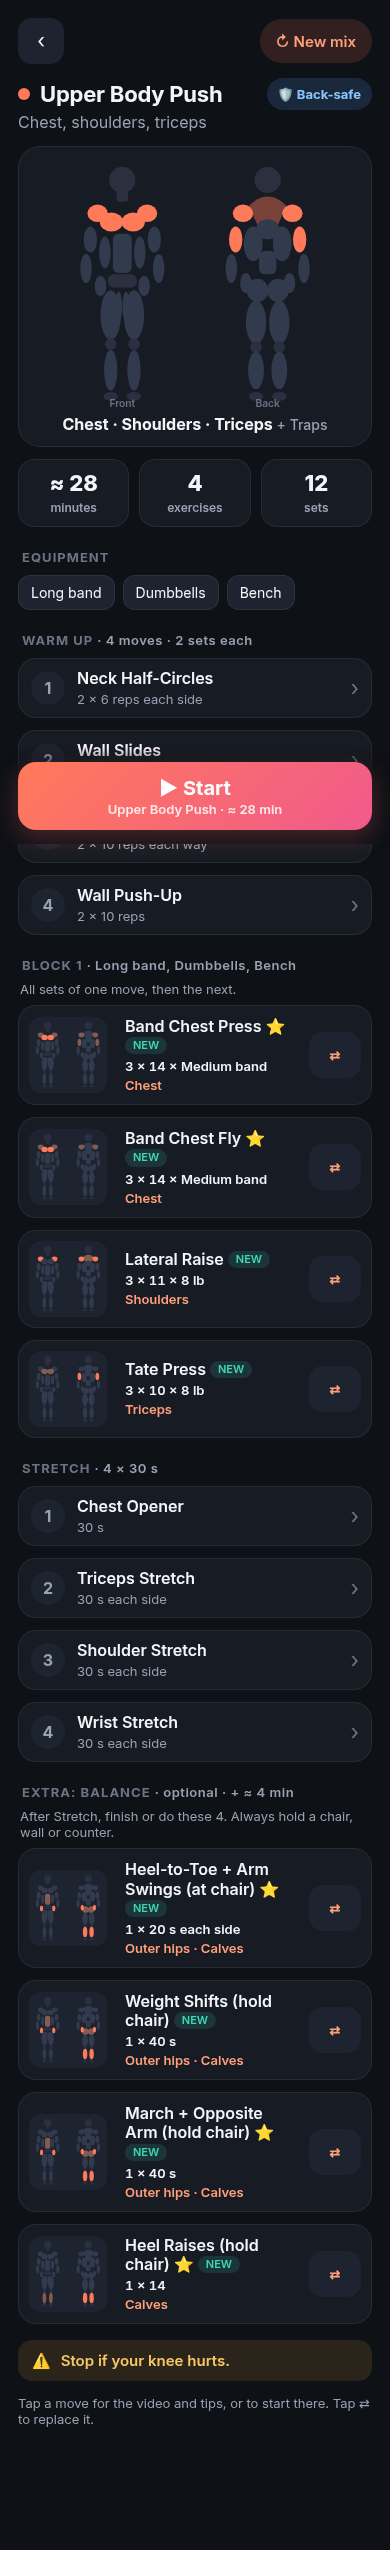
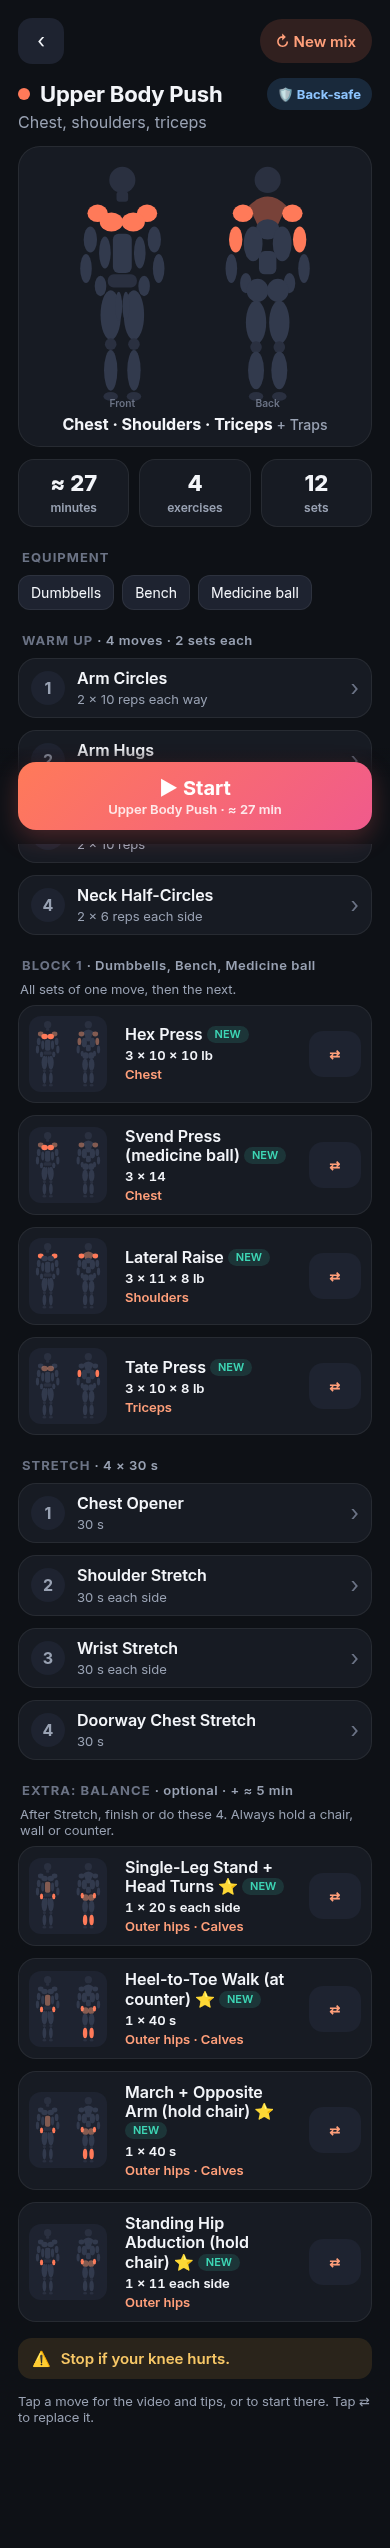
v6.7: 5 standing dumbbell core moves from Kassandra's reel, sprinkled into Block 1 (Day D/Core, sometimes Day A)

diff --git a/index.html b/index.html
@@ -38,6 +38,7 @@ h2{font-size:22px;margin:0 0 4px;letter-spacing:-.01em}
 .vbar{display:flex;flex-wrap:wrap;gap:8px;align-items:center;padding:8px 0 2px}.vbar .yt{padding:6px 2px;margin-left:auto}
 .pill.fav{background:rgba(245,181,68,.16);color:var(--warn)}
 .pill.cm{background:rgba(61,214,181,.14);color:var(--ok)}
+.pill.rl{background:rgba(160,120,255,.16);color:#C9B4FF;text-decoration:none}
 .cmn{margin-top:8px;font-size:14px;color:var(--muted);line-height:1.4}
 .kneel{display:flex;align-items:center;gap:10px;width:100%;margin-top:10px;padding:12px 14px;min-height:48px;border-radius:14px;background:var(--card2);color:var(--txt,#fff);font-size:15px;font-weight:600;text-align:left}
 .kneel .sw{margin-left:auto;width:44px;height:26px;border-radius:13px;background:rgba(255,255,255,.18);position:relative;flex:none}
@@ -527,6 +528,12 @@ kb_dead_bug:{g:"core",f:"anti",n:"Kettlebell Dead Bug",v:"556ibwFFFAM",c:"Lie on
 kb_overhead_march:{g:"core",f:"carry",n:"Overhead March (by a wall)",v:"edIzJHViuO0",c:"Stand next to a wall. Light bell straight up in one hand. March slowly in place. Switch at the beep.",e:"Kettlebell · Wall",w:"lb",t:40,s:1,fav:1},
 kb_rack_carry:{g:"core",f:"carry",n:"Rack Carry",v:"zKHog8SWdM4",c:"Hold the bell at your chest, elbow down. Stand tall. Walk slowly. Switch at the beep.",e:"Kettlebell",w:"lb",t:40,s:1,fav:1},
 superman:{g:"core",f:"ext",n:"Gentle Superman",v:"z6PJMT2y8GQ",c:"Lie on your belly on a soft mat. Lift arms and legs a little. Hold 2 seconds. Lower.",e:"Mat",w:"none",r:"8-10",fav:1},
+// ---------- From Kassandra's reel "5 standing core exercises" (Facebook, Aug 2026; inspo @WorthyfitQ). All standing, one dumbbell. rl = from the reel ----------
+reel_twist:{g:"core",f:"rot",n:"Standing Dumbbell Twist",v:"oCp6wBgKGaw",c:"Stand tall, feet hip-width, soft knees. Hold one dumbbell at your chest with both hands. Turn your ribs to one side, then the other. Hips face forward. Slow and controlled.",e:"Dumbbell",w:"lb",r:"12-16",sw:8,fav:1,rl:1,m:[["obliques","abs"],["shoulders"]],rln:"Kassandra does 15 reps."},
+reel_toe_reach:{g:"core",f:"chop",n:"Dumbbell Cross Reach (to shin)",v:"gSDi-M8p7pY",c:"Feet wide, soft knees. Hold one dumbbell with both hands. Push hips back and reach it toward the outside of one foot. Stand tall. Switch sides. Shin height is fine.",e:"Dumbbell",w:"lb",r:"12-16",sw:8,fav:1,rl:1,m:[["obliques","hamstrings"],["glutes","lowerback"]],rln:"Kassandra does 15 alternating reps and reaches to the floor. You can stop at shin height."},
+reel_chop_up:{g:"core",f:"chop",n:"Low-to-High Dumbbell Chop (standing)",v:"HtG6ybpEAZ0",c:"Feet wide, soft knees. Dumbbell in both hands at the outside of one hip. Lift it up and across to above the other shoulder. Pivot your back foot. Lower slowly. Switch sides.",e:"Dumbbell",w:"lb",r:"12-16",sw:8,fav:1,rl:1,m:[["obliques","shoulders"],["abs","glutes"]],rln:"Kassandra does 15 alternating reps. Keep the knee bend small, no squat."},
+reel_body_pass:{g:"core",f:"rot",n:"Dumbbell Around-the-Body Pass",v:"L1mmEBRHZrs",c:"Stand tall, feet hip-width, soft knees. Pass one dumbbell around your waist from hand to hand. Hips stay still, belly tight. Change direction every 5.",e:"Dumbbell",w:"lb",r:"16-20",sw:8,fav:1,rl:1,m:[["abs","obliques"],["shoulders","forearms"]],rln:"Kassandra does 20 reps, changing direction every 5."},
+reel_chop_down:{g:"core",f:"chop",xg:["sh"],n:"High-to-Low Dumbbell Chop (standing)",v:"bxSY805t8CQ",c:"Feet wide, soft knees. Hold one dumbbell with both hands above one shoulder. Pull it down and across to the outside of the other hip. Pivot your back foot. Lift back up slowly. Switch sides halfway.",e:"Dumbbell",w:"lb",r:"12-16",sw:8,fav:1,rl:1,m:[["obliques","shoulders"],["abs","lats"]],rln:"Kassandra does 15 reps from overhead."},
 // ---------- BALANCE (always hold support) ----------
 sl_stand:{g:"bal",f:"static",n:"Single-Leg Stand (hold chair)",v:"E3j7nJyqLys",c:"Hold a chair or wall. Lift one foot a little. Stand tall. Switch at the beep.",e:"Chair or wall",w:"none",t:40,s:1,b:1,st:602,en:805,my:1,alt:["8xRDWe3pj30",0,0,"Short demo"],fav:1},
 tandem:{g:"bal",f:"static",n:"Heel-to-Toe Stand (at wall)",v:"E3j7nJyqLys",c:"Stand next to a wall, hand on it. One foot right in front of the other. Switch at the beep.",e:"Wall",w:"none",t:40,s:1,b:1,st:325,en:382,my:1,alt:["ra7tzlPxnsQ",0,0,"Short demo"],fav:1},
@@ -638,8 +645,11 @@ const BACK_BAD=new Set([
  "mb_twist","woodchop","db_side_bend","kb_around_world","kb_sword_chop","kb_digger","kb_underhand_twist","kb_rainbow","superman",
  "torso_twist","side_bend","cat_cow_stand","good_morning","hip_circles","elephant_walk","march",
  "upper_back","seated_twist","seated_ham","seated_piriformis","knee_drops","lying_twist","open_book","sphinx","lat_stretch",
- "chair_hip_ext"]);
+ "chair_hip_ext",
+ "reel_toe_reach"]);
 /* if a whole slot is unsafe (e.g. RDL hinge, twisting core), pick from these instead */
+/* reel moves: Valerie says her back is fine, so only the loaded reach-to-the-floor is left out in back-safe mode */
+const REEL_FB="https://www.facebook.com/reel/878490528387532/";
 const BACK_ALT={hinge:"gb",core:"core"};
 const XSLOTS=[{g:"bal",f:["static"],n:1,rest:15,fix:1,x:1},{g:"bal",f:["dyn"],n:1,rest:15,fix:1,x:1},{g:"bal",f:["dyn","static"],n:1,rest:15,fix:1,x:1},{g:"bal",f:["str"],n:1,rest:15,fix:1,x:1}];
 /* cm = extra weight for Coddell Mutate moves in that slot; fin = core finisher at the end of the day */
@@ -744,9 +754,13 @@ const FAVW=2;
 function prefOf(k){return (LS.get("pref",{}))[k]||""}
 function setPref(k,v){const p=LS.get("pref",{});if(p[k]===v)delete p[k];else p[k]=v;LS.set("pref",p)}
 /* Coddell Mutate moves (cm) get the slot's cm weight on top (core slots on Day D, core finishers on A-C) */
-const wOf=(k,sl)=>{const p=prefOf(k);return (EX[k].fav?FAVW:1)*(sl&&sl.cm&&EX[k].cm?sl.cm:1)*(p==="more"?2:p==="less"?0.4:1)};
+/* reel moves (rl): "sprinkled in". In back-safe mode most other twisting core moves are out, so the reel ones are toned down there to stay occasional */
+const RLW=()=>backSafe()?0.12:1;
+const wOf=(k,sl)=>{const p=prefOf(k);return (EX[k].fav?FAVW:1)*(EX[k].rl?RLW():1)*(sl&&sl.cm&&EX[k].cm?sl.cm:1)*(p==="more"?2:p==="less"?0.4:1)};
 function wpick(a,sl){let t=a.reduce((s,k)=>s+wOf(k,sl),0),r=Math.random()*t;for(const k of a){r-=wOf(k,sl);if(r<=0)return k}return a[a.length-1]}
 const CM_TAG='<span class="pill cm">💪 From Coddell Mutate</span>';
+const RL_TAG=`<a class="pill rl" href="${REEL_FB}" target="_blank" rel="noopener">🎬 From Kassandra's reel ↗</a>`;
+const srcTag=e=>(e.cm||e.rl)?`<div class="chips" style="margin-top:8px">${e.cm?CM_TAG:""}${e.rl?RL_TAG:""}</div>`:"";
 /* kettlebells come in fixed sizes: lb values of 4, 6, 8, 10, 12, 14, 16, 18, 20, 24 kg bells */
 const KB_LB=[9,13,18,22,26,31,35,40,44,53];
 const kgOf=lb=>Math.round(lb/2.2046);
@@ -1010,7 +1024,7 @@ function overview(day){
  const ms=sessionMuscles(p.b),sets=D.slots.reduce((t,sl,j)=>t+roundsFor(p.b[j],sl),0),em=estMin(day);
  const lite=(k,i,m)=>`<button class="item lite" onclick="preview('${k}','${day}',-1)"><span class="num">${i+1}</span><span class="sp" style="text-align:left"><span class="n">${exName(k)}</span><span class="m">${m}</span></span><span class="chev">›</span></button>`;
  const slot=j=>{const k=pick(day,j),e=EX[k],sl=slotOf(day,j),pf=prefOf(k);
-  return `<div class="item"><button class="mthumbbtn" onclick="preview('${k}','${day}',${j})" aria-label="Watch">${bodySVG(k,"mthumb")}</button><button class="sp" style="text-align:left" onclick="preview('${k}','${day}',${j})"><div class="n">${exName(k)}${e.fav?" <span title='favorite style'>⭐</span>":""}${e.cm?" <span title='From Coddell Mutate'>💪</span>":""}${pf==="more"?" 👍":pf==="less"?" 👎":""}${isNew(k)?' <span class="pill ok" style="padding:2px 8px;font-size:11px;vertical-align:2px">NEW</span>':""}</div><div class="m tg">${fmtTarget(k,roundsFor(k,sl))}</div><div class="m mm">${musclesOf(k)[0].map(m=>MNAME[m]).join(" · ")}</div></button><button class="swap" onclick="openReplace('${day}',${j},0)" aria-label="Replace">⇄</button></div>`};
+  return `<div class="item"><button class="mthumbbtn" onclick="preview('${k}','${day}',${j})" aria-label="Watch">${bodySVG(k,"mthumb")}</button><button class="sp" style="text-align:left" onclick="preview('${k}','${day}',${j})"><div class="n">${exName(k)}${e.fav?" <span title='favorite style'>⭐</span>":""}${e.cm?" <span title='From Coddell Mutate'>💪</span>":""}${e.rl?" <span title=\"From Kassandra's reel\">🎬</span>":""}${pf==="more"?" 👍":pf==="less"?" 👎":""}${isNew(k)?' <span class="pill ok" style="padding:2px 8px;font-size:11px;vertical-align:2px">NEW</span>':""}</div><div class="m tg">${fmtTarget(k,roundsFor(k,sl))}</div><div class="m mm">${musclesOf(k)[0].map(m=>MNAME[m]).join(" · ")}</div></button><button class="swap" onclick="openReplace('${day}',${j},0)" aria-label="Replace">⇄</button></div>`};
  const beq=equipOf(day,p.b).join(", ");
  let h=`<div class="wrap"><div class="top"><button class="icon-btn" onclick="chooseScreen()" aria-label="Back">‹</button><div class="sp"></div><button class="pill acc" style="min-height:44px;padding:0 16px;font-size:15px" onclick="refreshPlan('${day}');overview('${day}')">↻ New mix</button></div>
  <div class="ovh"><span class="dot" style="background:${D.col}"></span><h2 style="margin:0">${D.t}</h2>${backSafe()?'<button class="pill bsafe" onclick="toast(\'Back-safe mode is on. Turn it off on the home screen.\')">🛡 Back-safe</button>':""}</div><div class="muted" style="margin-top:2px">${D.s}</div>
@@ -1029,7 +1043,7 @@ function overview(day){
 }
 function preview(k,day,j){const e=EX[k];const ctx=day&&j>=0?`ov:${day}:${j}`:"pv";
  $("#sheetPane").innerHTML=`<div class="grab"></div><div class="video" id="pvid"></div><div class="vbar" id="pbar2"></div>
- <div class="exname">${exName(k)}</div><div class="muted">${kneelOn(k)?e.kn.e:e.e||""}</div>${day&&DAYS[day]?`<button class="btn pri starthere" onclick="start('${day}','${k}')">▶ Start workout here</button>`:""}${e.cm?`<div class="chips" style="margin-top:8px">${CM_TAG}</div>`:""}${e.cmn&&!kneelOn(k)?`<div class="cmn">🦵 Knee-safe: ${e.cmn}</div>`:""}${kneelBar(k,ctx)}${e.g!=="bonus"?`<div class="mbox">${bodySVG(k)}<div class="mtxt"><div class="lbl" style="margin:0 0 4px">Works</div><div>${muscleText(k)}</div></div></div>`:""}<p class="cue">${exCue(k)}</p>${day&&e.g!=="warm"&&e.g!=="cool"?`<div class="last guide">${advice(k).text}</div>`:""}${e.g!=="bonus"?prefBar(k,ctx):""}${k==="happy_walk"?`<button class="btn ok" style="margin-top:14px" onclick="logWalk()">✓ I did my walk today</button>`:""}${day&&j>=0?`<button class="btn ghost" style="margin-top:6px" onclick="openReplace('${day}',${j},0)">⇄ Replace this move</button>`:""}<div style="margin-top:14px">${KNEE}</div>
+ <div class="exname">${exName(k)}</div><div class="muted">${kneelOn(k)?e.kn.e:e.e||""}</div>${day&&DAYS[day]?`<button class="btn pri starthere" onclick="start('${day}','${k}')">▶ Start workout here</button>`:""}${srcTag(e)}${e.rln?`<div class="cmn">🎬 ${e.rln}</div>`:""}${e.cmn&&!kneelOn(k)?`<div class="cmn">🦵 Knee-safe: ${e.cmn}</div>`:""}${kneelBar(k,ctx)}${e.g!=="bonus"?`<div class="mbox">${bodySVG(k)}<div class="mtxt"><div class="lbl" style="margin:0 0 4px">Works</div><div>${muscleText(k)}</div></div></div>`:""}<p class="cue">${exCue(k)}</p>${day&&e.g!=="warm"&&e.g!=="cool"?`<div class="last guide">${advice(k).text}</div>`:""}${e.g!=="bonus"?prefBar(k,ctx):""}${k==="happy_walk"?`<button class="btn ok" style="margin-top:14px" onclick="logWalk()">✓ I did my walk today</button>`:""}${day&&j>=0?`<button class="btn ghost" style="margin-top:6px" onclick="openReplace('${day}',${j},0)">⇄ Replace this move</button>`:""}<div style="margin-top:14px">${KNEE}</div>
  <div style="margin-top:14px"><button class="btn sec" onclick="closeSheet()">Close</button></div>`;
  PV={k,i:0};drawVid("pvid","pbar2",k,0);openSheet()}
 let PV=null;
@@ -1296,7 +1310,7 @@ function exCueHTML(k){return kneelOn(k)?'<div class="kneel-note" style="margin:8
 /* Info sheet: the secondary things (how-to, last time + today, More/Less/Never, Replace, kneeling, ± round) */
 function infoSheet(){if(!S)return;const st=S.steps[S.i];if(st.t!=="e")return;const k=curKey(),e=EX[k],X=curEx();
  $("#sheetPane").innerHTML=`<div class="grab"></div><div class="exname">${exName(k)}</div><div class="muted">${kneelOn(k)?e.kn.e:e.e||""}</div>
- ${e.cm?`<div class="chips" style="margin-top:8px">${CM_TAG}</div>`:""}${e.cmn&&!kneelOn(k)?`<div class="cmn">🦵 Knee-safe: ${e.cmn}</div>`:""}${kneelBar(k,"runinfo")}
+ ${srcTag(e)}${e.rln?`<div class="cmn">🎬 ${e.rln}</div>`:""}${e.cmn&&!kneelOn(k)?`<div class="cmn">🦵 Knee-safe: ${e.cmn}</div>`:""}${kneelBar(k,"runinfo")}
  <div class="lbl" style="margin:16px 0 4px">How to</div><p class="cue" style="margin:0">${exCue(k)}</p>
  ${X&&X.adv?`<div class="lbl" style="margin:16px 0 4px">Last time &amp; today</div><div class="last guide">${X.adv}</div>`:""}
  <div class="lbl" style="margin:16px 0 4px">Works</div><div class="mtxt">${muscleText(k)}</div>
@@ -1415,7 +1429,7 @@ function nextPreview(){const N=nextLabelKey();if(!N){toast("That was the last mo
 function openReplace(day,j,inRun){if(inRun&&S&&S.legacy){toast("Replace works again from your next workout.");return}const cur=inRun&&S?runPick(j):pick(day,j),list=altsFor(day,j);
  $("#sheetPane").innerHTML=`<div class="grab"></div><div class="exname">Replace this move</div>
  <div class="muted" style="margin-top:4px">${EX[cur].n} · works ${musclesOf(cur)[0].map(m=>MNAME[m]).join(", ")}</div>
- <div class="stack" style="margin-top:14px">${list.map(k=>`<button class="altitem" onclick="pickAlt('${day}',${j},'${k}',${inRun?1:0})">${bodySVG(k,"mthumb")}<div class="sp"><div class="n">${exName(k)}${EX[k].fav?" ⭐":""}${EX[k].cm?" 💪":""}${isNew(k)?' <span class="pill ok" style="padding:2px 8px;font-size:11px">NEW</span>':""}</div><div class="m">${musclesOf(k)[0].map(m=>MNAME[m]).join(" · ")} · ${EX[k].e||""}</div></div><span class="chev">›</span></button>`).join("")}</div>
+ <div class="stack" style="margin-top:14px">${list.map(k=>`<button class="altitem" onclick="pickAlt('${day}',${j},'${k}',${inRun?1:0})">${bodySVG(k,"mthumb")}<div class="sp"><div class="n">${exName(k)}${EX[k].fav?" ⭐":""}${EX[k].cm?" 💪":""}${EX[k].rl?" 🎬":""}${isNew(k)?' <span class="pill ok" style="padding:2px 8px;font-size:11px">NEW</span>':""}</div><div class="m">${musclesOf(k)[0].map(m=>MNAME[m]).join(" · ")} · ${EX[k].e||""}</div></div><span class="chev">›</span></button>`).join("")}</div>
  <div class="row" style="margin-top:12px"><button class="btn ghost" onclick="openReplace('${day}',${j},${inRun?1:0})">↻ Show others</button><button class="btn sec" onclick="closeSheet()">Keep it</button></div>`;
  openSheet()}
 function pickAlt(day,j,k,inRun){replaceSlot(day,j,k);closeSheet();toast("Replaced with "+EX[k].n);
@@ -1473,7 +1487,7 @@ function healthHelp(d){const rec=d?recByD(d):null;
  <div style="margin-top:12px"><button class="btn sec" onclick="closeSheet()">Close</button></div>`;openSheet()}
 
 /* ===== app version: when the app comes back to the front (no workout running), load a newer version if there is one ===== */
-const APP_VER="6.6";
+const APP_VER="6.7";
 function checkUpdate(){if(S)return;fetch(location.pathname+"?vc="+Date.now(),{cache:"no-store"}).then(r=>r.text()).then(t=>{const m=t.match(/const APP_VER="([^"]+)"/);
  if(m&&m[1]!==APP_VER&&!S){let tried="";try{tried=sessionStorage.getItem("vw_upd")||""}catch(e){}if(tried===m[1])return;try{sessionStorage.setItem("vw_upd",m[1])}catch(e){}location.replace(location.pathname+"?v="+encodeURIComponent(m[1]))}}).catch(()=>{})}
 document.addEventListener("visibilitychange",()=>{if(document.visibilityState==="visible")setTimeout(checkUpdate,400)});
